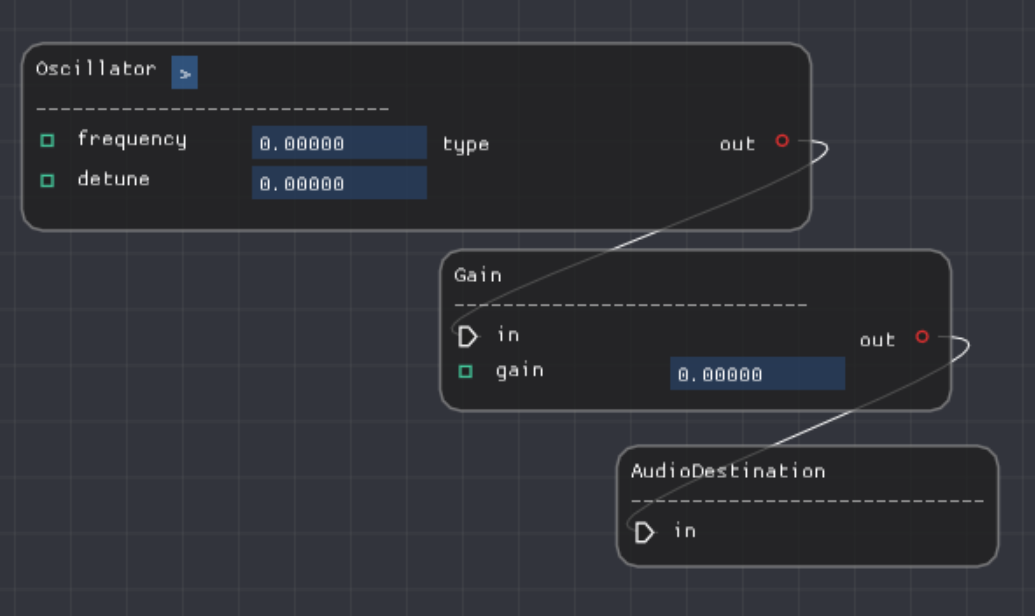
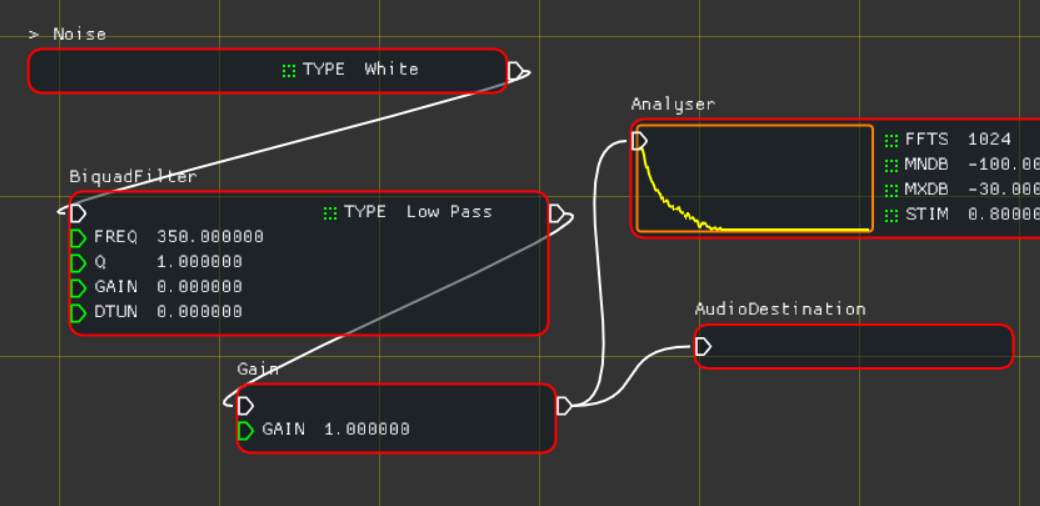
First pass at performance profile rendering

diff --git a/src/lab_noodle.cpp b/src/lab_noodle.cpp
@@ -469,6 +469,8 @@ namespace noodle {
     static int g_edit_pin_int = 0;
     static bool g_edit_pin_bool = false;
 
+    static float g_total_profile_duration = 1; // in microseconds
+
     struct HoverState
     {
         void reset(entt::entity en)
@@ -1447,7 +1449,22 @@ namespace noodle {
 
     bool run_noodles()
     {
+        struct RunWork
+        {
+            ~RunWork()
+            {
+                for (Work& work : g_pending_work)
+                    work.eval();
+
+                g_pending_work.clear();
+            }
+        } run_work;
+
         init();
+
+        // don't run until the device is ready
+        if (!g_audio_context || !g_audio_context->device())
+            return false;
 
         //---------------------------------------------------------------------
         // ensure node sizes are up to date
@@ -1786,8 +1803,13 @@ namespace noodle {
 
         // draw nodes
 
+        g_total_profile_duration = g_audio_context->device()->graphTime.microseconds.count();
+
         for (auto& i : g_graph.nodes)
         {
+            float node_profile_duration = i.second->node->totalTime.microseconds.count() - i.second->node->graphTime.microseconds.count();
+            node_profile_duration = std::abs(node_profile_duration); /// @TODO, the destination node doesn't yet have a totalTime, so abs is a hack in the nonce
+
             ImVec2 ul_ws = i.second->pos;
             ImVec2 lr_ws = i.second->lr;
             ul_ws = window_origin_offset_ws + ul_ws * g_canvas_scale + g_canvas_pixel_offset_ws;
@@ -1798,6 +1820,14 @@ namespace noodle {
             const float rounding = 10;
             drawList->AddRectFilled(ul_ws, lr_ws, ImColor(10, 20, 30, 128), rounding);
             drawList->AddRect(ul_ws, lr_ws, ImColor(255, g_hover.node_id == i.second->gui_node_id ? 255 : 0, 0, 255), rounding, 15, 2);
+
+            {
+                ImVec2 p1{ ul_ws.x, lr_ws.y };
+                ImVec2 p2{ lr_ws.x, lr_ws.y + g_canvas_scale * 16 };
+                drawList->AddRect(p1, p2, ImColor(128, 255, 128, 255));
+                p2.x = p1.x + (p2.x - p1.x) * node_profile_duration / g_total_profile_duration;
+                drawList->AddRectFilled(p1, p2, ImColor(255, 255, 255, 128));
+            }
 
             if (!strncmp(i.second->name.c_str(), "Analyser", 8))
             {
@@ -1989,17 +2019,14 @@ namespace noodle {
         drawList->AddText(io.FontDefault, 16, ImVec2{ 10, y += 20 }, 0xffffffff, buff, buff + strlen(buff));
         sprintf(buff, "edit connection: %d", g_edit_connection);
         drawList->AddText(io.FontDefault, 16, ImVec2{ 10, y += 20 }, 0xffffffff, buff, buff + strlen(buff));
+        sprintf(buff, "quantum time: %f uS", g_total_profile_duration);
+        drawList->AddText(io.FontDefault, 16, ImVec2{ 10, y += 20 }, 0xffffffff, buff, buff + strlen(buff));
         drawList->ChannelsSetCurrent(ChannelContent);
 
         // finish
 
         drawList->ChannelsMerge();
         EndChild();
-
-        for (Work& work : g_pending_work)
-            work.eval();
-
-        g_pending_work.clear();
 
         return true;
     }

diff --git a/src/nfd.h b/src/nfd.h
@@ -1,5 +1,5 @@
 
-#ifdef __WIN32
+#ifdef _WIN32
 #define NOC_FILE_DIALOG_WIN32
 #elif defined(__APPLE__)
 #define NOC_FILE_DIALOG_OSX
